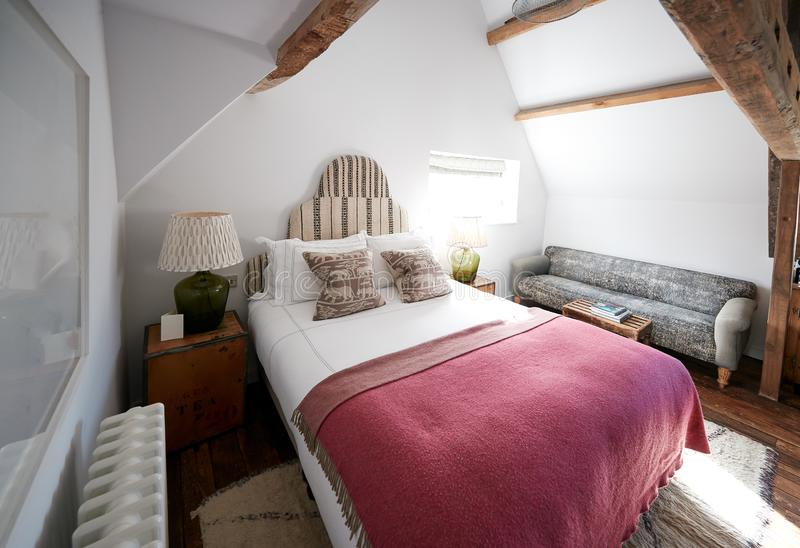
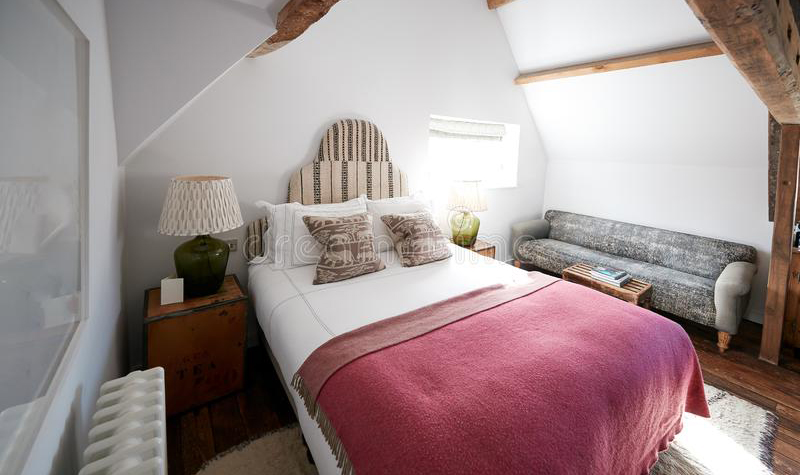
update room cards

diff --git a/src/views/LandingPage.js b/src/views/LandingPage.js
@@ -55,7 +55,7 @@ const LandingPage = (props) => {
               title="The Journey"
             />
             <RoomCard
-              image={{ src: 'room1.jpg', alt: '' }}
+              image={{ src: 'room2.jpg', alt: '' }}
               details={[
                 { src: 'bed.svg', alt: '', text: '1 x Queen Bed' },
                 { src: 'bed.svg', alt: '', text: '1 x Queen Bed' },
@@ -64,7 +64,7 @@ const LandingPage = (props) => {
               title="The Honeymoon"
             />
             <RoomCard
-              image={{ src: 'room1.jpg', alt: '' }}
+              image={{ src: 'room3.jpg', alt: '' }}
               details={[
                 { src: 'bed.svg', alt: '', text: '1 x Queen Bed' },
                 { src: 'bed.svg', alt: '', text: '1 x Queen Bed' },

diff --git a/src/views/RoomPage.js b/src/views/RoomPage.js
@@ -33,6 +33,8 @@ const Wrapper = styled.main`
   padding: 8rem 0 0 0;
   .main-image {
     width: 100%;
+    max-height: 90vh;
+    object-fit: cover;
   }
 
   .image-carosel {
